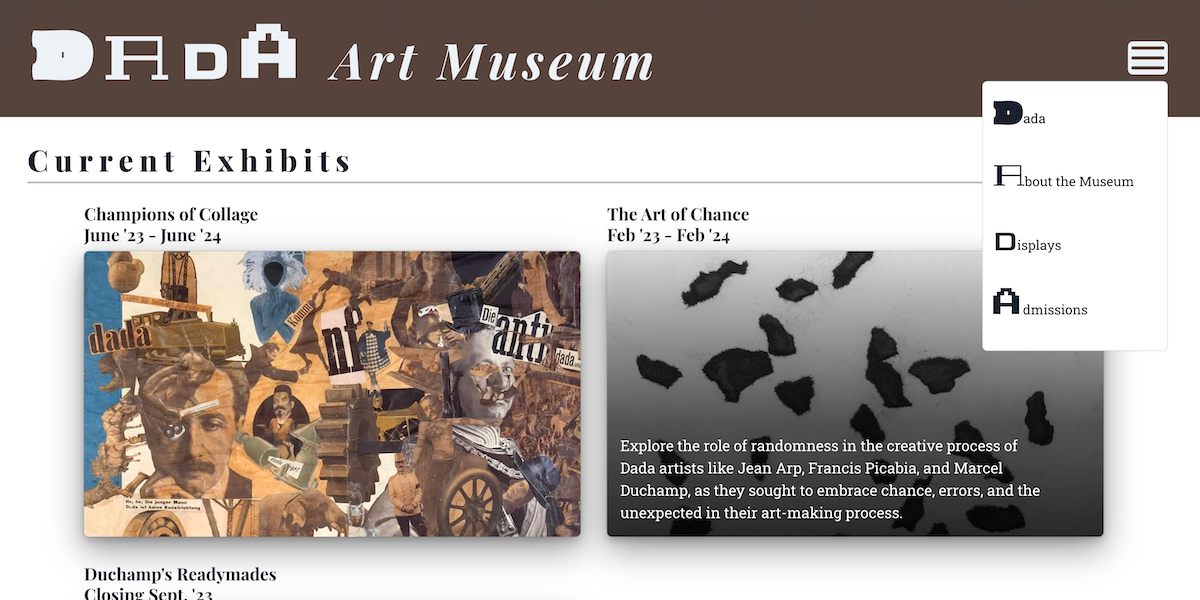
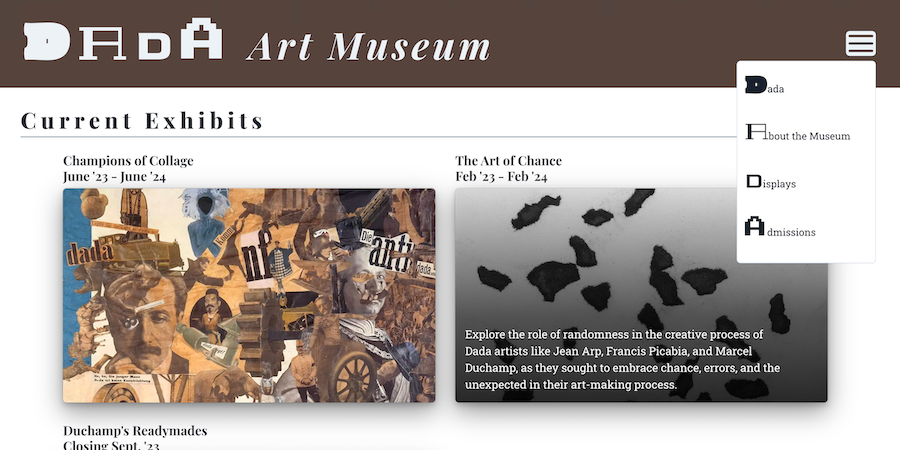
resizes images

diff --git a/client/src/sections/constants/Constants.jsx b/client/src/sections/constants/Constants.jsx
@@ -1,6 +1,7 @@
 export const projects = [
 	{
 		src: "/images/RectFRAiMEScreenshot.png",
+		thumbnailSrc: "/images/RectFRAiMEScreenshotThumbnail.png",
 		name: "FRAiME",
 		deployedLink: "https://github.com",
 		repoLink: "https://github.com",
@@ -9,6 +10,7 @@ export const projects = [
 	},
 	{
 		src: "/images/RectDadaScreenshot.png",
+		thumbnailSrc: "/images/RectDadaScreenshotThumbnail.png",
 		name: "Dada Art Museum",
 		deployedLink: "https://dada-museum.herokuapp.com/",
 		repoLink: "https://github.com/ColdWeatherBoyy/dada-museum",
@@ -17,6 +19,7 @@ export const projects = [
 	},
 	{
 		src: "/images/RectTemplateScreenshot.png",
+		thumbnailSrc: "/images/RectTemplateScreenshotThumbnail.png",
 		name: "Vite React Template",
 		deployedLink: "https://coldweatherboyy.github.io/vite-template/",
 		repoLink: "https://github.com/ColdWeatherBoyy/vite-template",
@@ -25,6 +28,7 @@ export const projects = [
 	},
 	{
 		src: "/images/RectPortfolioScreenshot.png",
+		thumbnailSrc: "/images/RectPortfolioScreenshotThumbnail.png",
 		name: "Portfolio",
 		deployedLink: "https://github.com",
 		repoLink: "https://github.com",
@@ -33,6 +37,7 @@ export const projects = [
 	},
 	{
 		src: "/images/RectDeadInsideScreenshot.png",
+		thumbnailSrc: "/images/RectDeadInsideScreenshotThumbnail.png",
 		name: "Dead Inside Games",
 		deployedLink: "https://dead-inside-games.herokuapp.com/",
 		repoLink: "https://github.com/ColdWeatherBoyy/dead-inside-games",
@@ -41,6 +46,7 @@ export const projects = [
 	},
 	{
 		src: "/images/RectCitySoundsScreenshot.png",
+		thumbnailSrc: "/images/RectCitySoundsScreenshotThumbnail.png",
 		name: "City Sounds",
 		deployedLink: "https://city-sounds-esz.herokuapp.com/",
 		repoLink: "https://github.com/ColdWeatherBoyy/city-sounds",
@@ -49,6 +55,7 @@ export const projects = [
 	},
 	{
 		src: "/images/RectTweeterScreenshot.png",
+		thumbnailSrc: "/images/RectTweeterScreenshotThumbnail.png",
 		name: "Tweeter",
 		deployedLink: "https://tweeter-usk.herokuapp.com/",
 		repoLink: "https://github.com/BobbyCharms/tweeter",

diff --git a/client/src/sections/ProjectList.jsx b/client/src/sections/ProjectList.jsx
@@ -164,7 +164,7 @@ const ProjectList = () => {
 							{projects.map((image, index) => (
 								<Image
 									key={index}
-									src={image.src}
+									src={image.thumbnailSrc}
 									alt={`Thumbnail ${index}`}
 									aspectRatio="1 / 1"
 									boxSize="8%"
